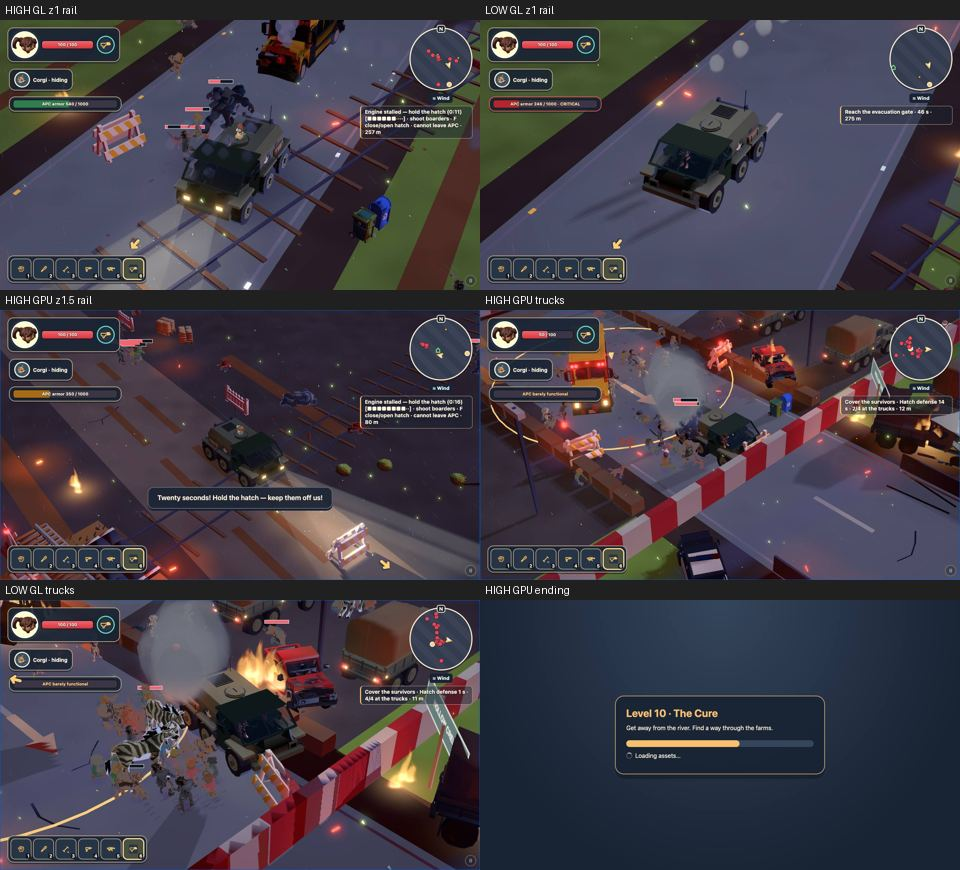
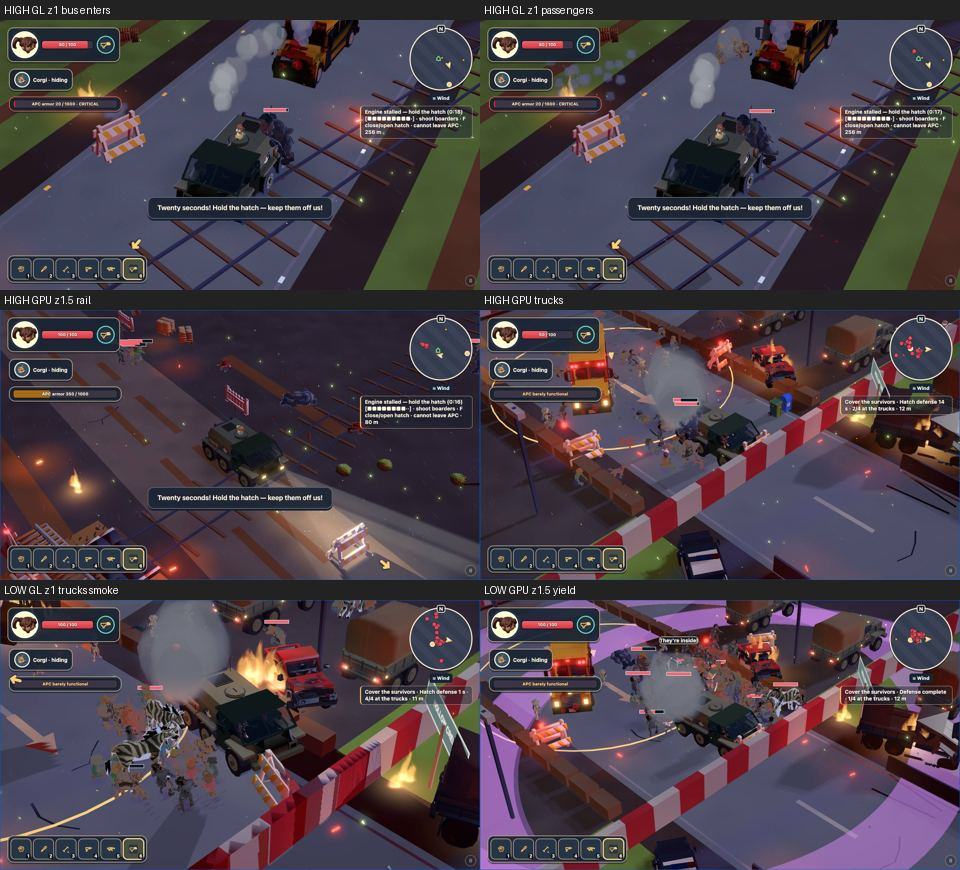
docs: reconcile current findings and refresh inspected QA sheet

diff --git a/docs/reports/s122-l9qa/README.md b/docs/reports/s122-l9qa/README.md
@@ -21,15 +21,15 @@ The temporary driver correction released movement and aimed/fired the physical m
 
 ## Visual review and provisional verdict
 
-Personally inspected [contact-sheet.jpg](contact-sheet.jpg), six panels at 960×870: HIGH GL rail hatch, LOW GL post-rail restart, HIGH requested GPU rail, HIGH requested GPU trucks, LOW GL trucks, L10 loading after actual handover. The last panel is a loading screen, not the ending cinematic.
+Personally inspected the current [contact-sheet.jpg](contact-sheet.jpg), six panels at960×870: HIGH GL z1 bus entry and passenger release, HIGH GPU z1.5 rail, HIGH GPU trucks, LOW GL z1 trucks smoke, LOW GPU z1.5 final yield. Earlier loading-screen panel was replaced with the observed incomplete LOW truck state.
 
-The pursuit gives the hatch a visible source of pressure; rail combat is readable in sampled frames. The truck defence is busier and smoky, with a crowd pressing around the APC. With working fire input both routes finish without deaths, while HIGH still costs health. **Provisional feel: tense and manageable, not harmless; smoke makes the truck beat harder to read.** This is an automated real-input observation, not a human playtester rating. No confirmed P1. Known smoke is P2. No new confirmed P3.
+The pursuit gives the hatch a visible source of pressure; rail combat is readable in sampled frames. The truck defence is busier and smoky, with a crowd pressing around the APC. With working fire input both routes finish without deaths, while HIGH still costs health. **Provisional feel: tense and manageable, not harmless; smoke makes the truck beat harder to read.** This is an automated real-input observation, not a human playtester rating. No confirmed P1. Known smoke is P2. P3: clustered passenger release obscures individual exits.
 
 Stills do not establish continuous absence of popping, bus clipping, sliding/jitter, unrealistic catch-up speed, or passenger spawn/grounding artifacts. Those checks remain open rather than being inferred from successful completion.
 
 ## Validation
 
-Production QA build, typecheck and lint passed. Unchanged remote `sh tools/remote/run.sh "$PWD" -- npm test` passed: runner 46.225.66.90, 127.5/240 s. Earlier EPERM listener and unavailable-runner attempts were resolved and are retained only as history in JSON. JSON is below 200 KB; one small inspected sheet is committed. Raw captures/logs: `test-results/s122-*` (local).
+Production QA build, typecheck and lint passed. Unchanged remote `sh tools/remote/run.sh "$PWD" -- npm test` passed: runner 46.225.66.90,127.5/240s;150/150 manifest,27 files passed,105 tests passed/1 skipped. Earlier EPERM listener and unavailable-runner attempts were resolved and are retained only as history in JSON. JSON is below 200 KB; one small inspected sheet is committed. Raw captures/logs: `test-results/s122-*` (local).
 
 ## Completion audit — still open
 
